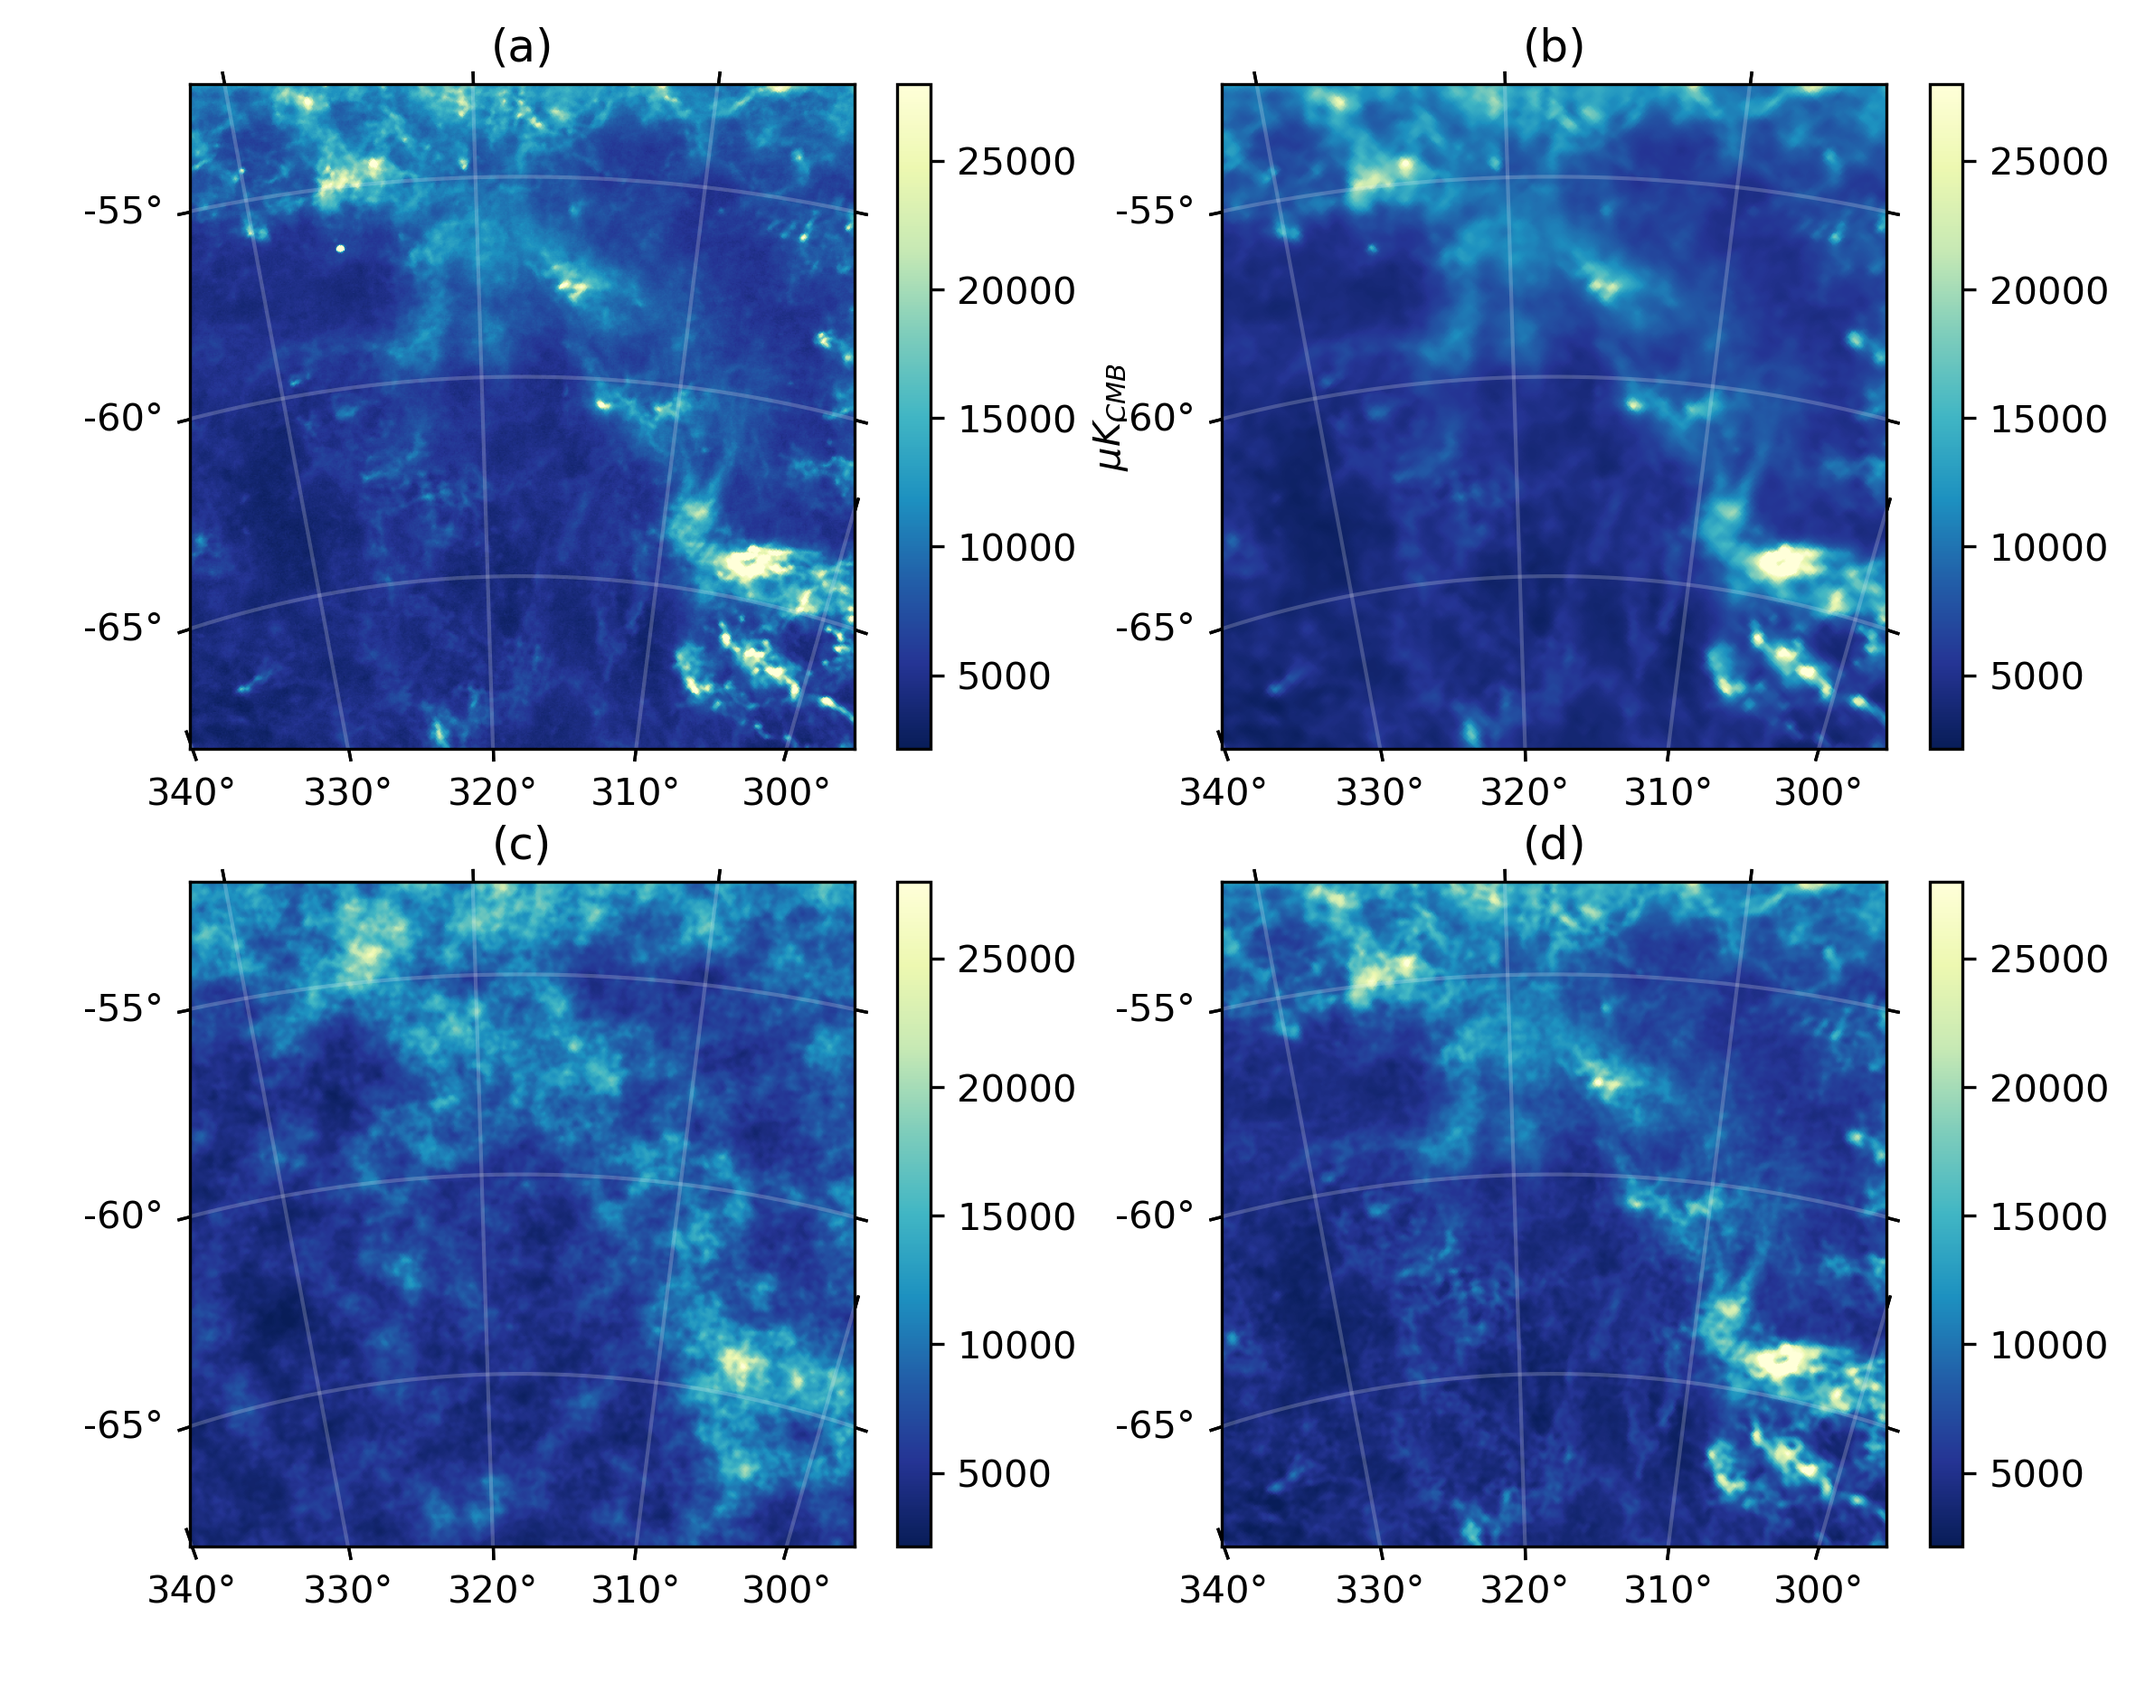
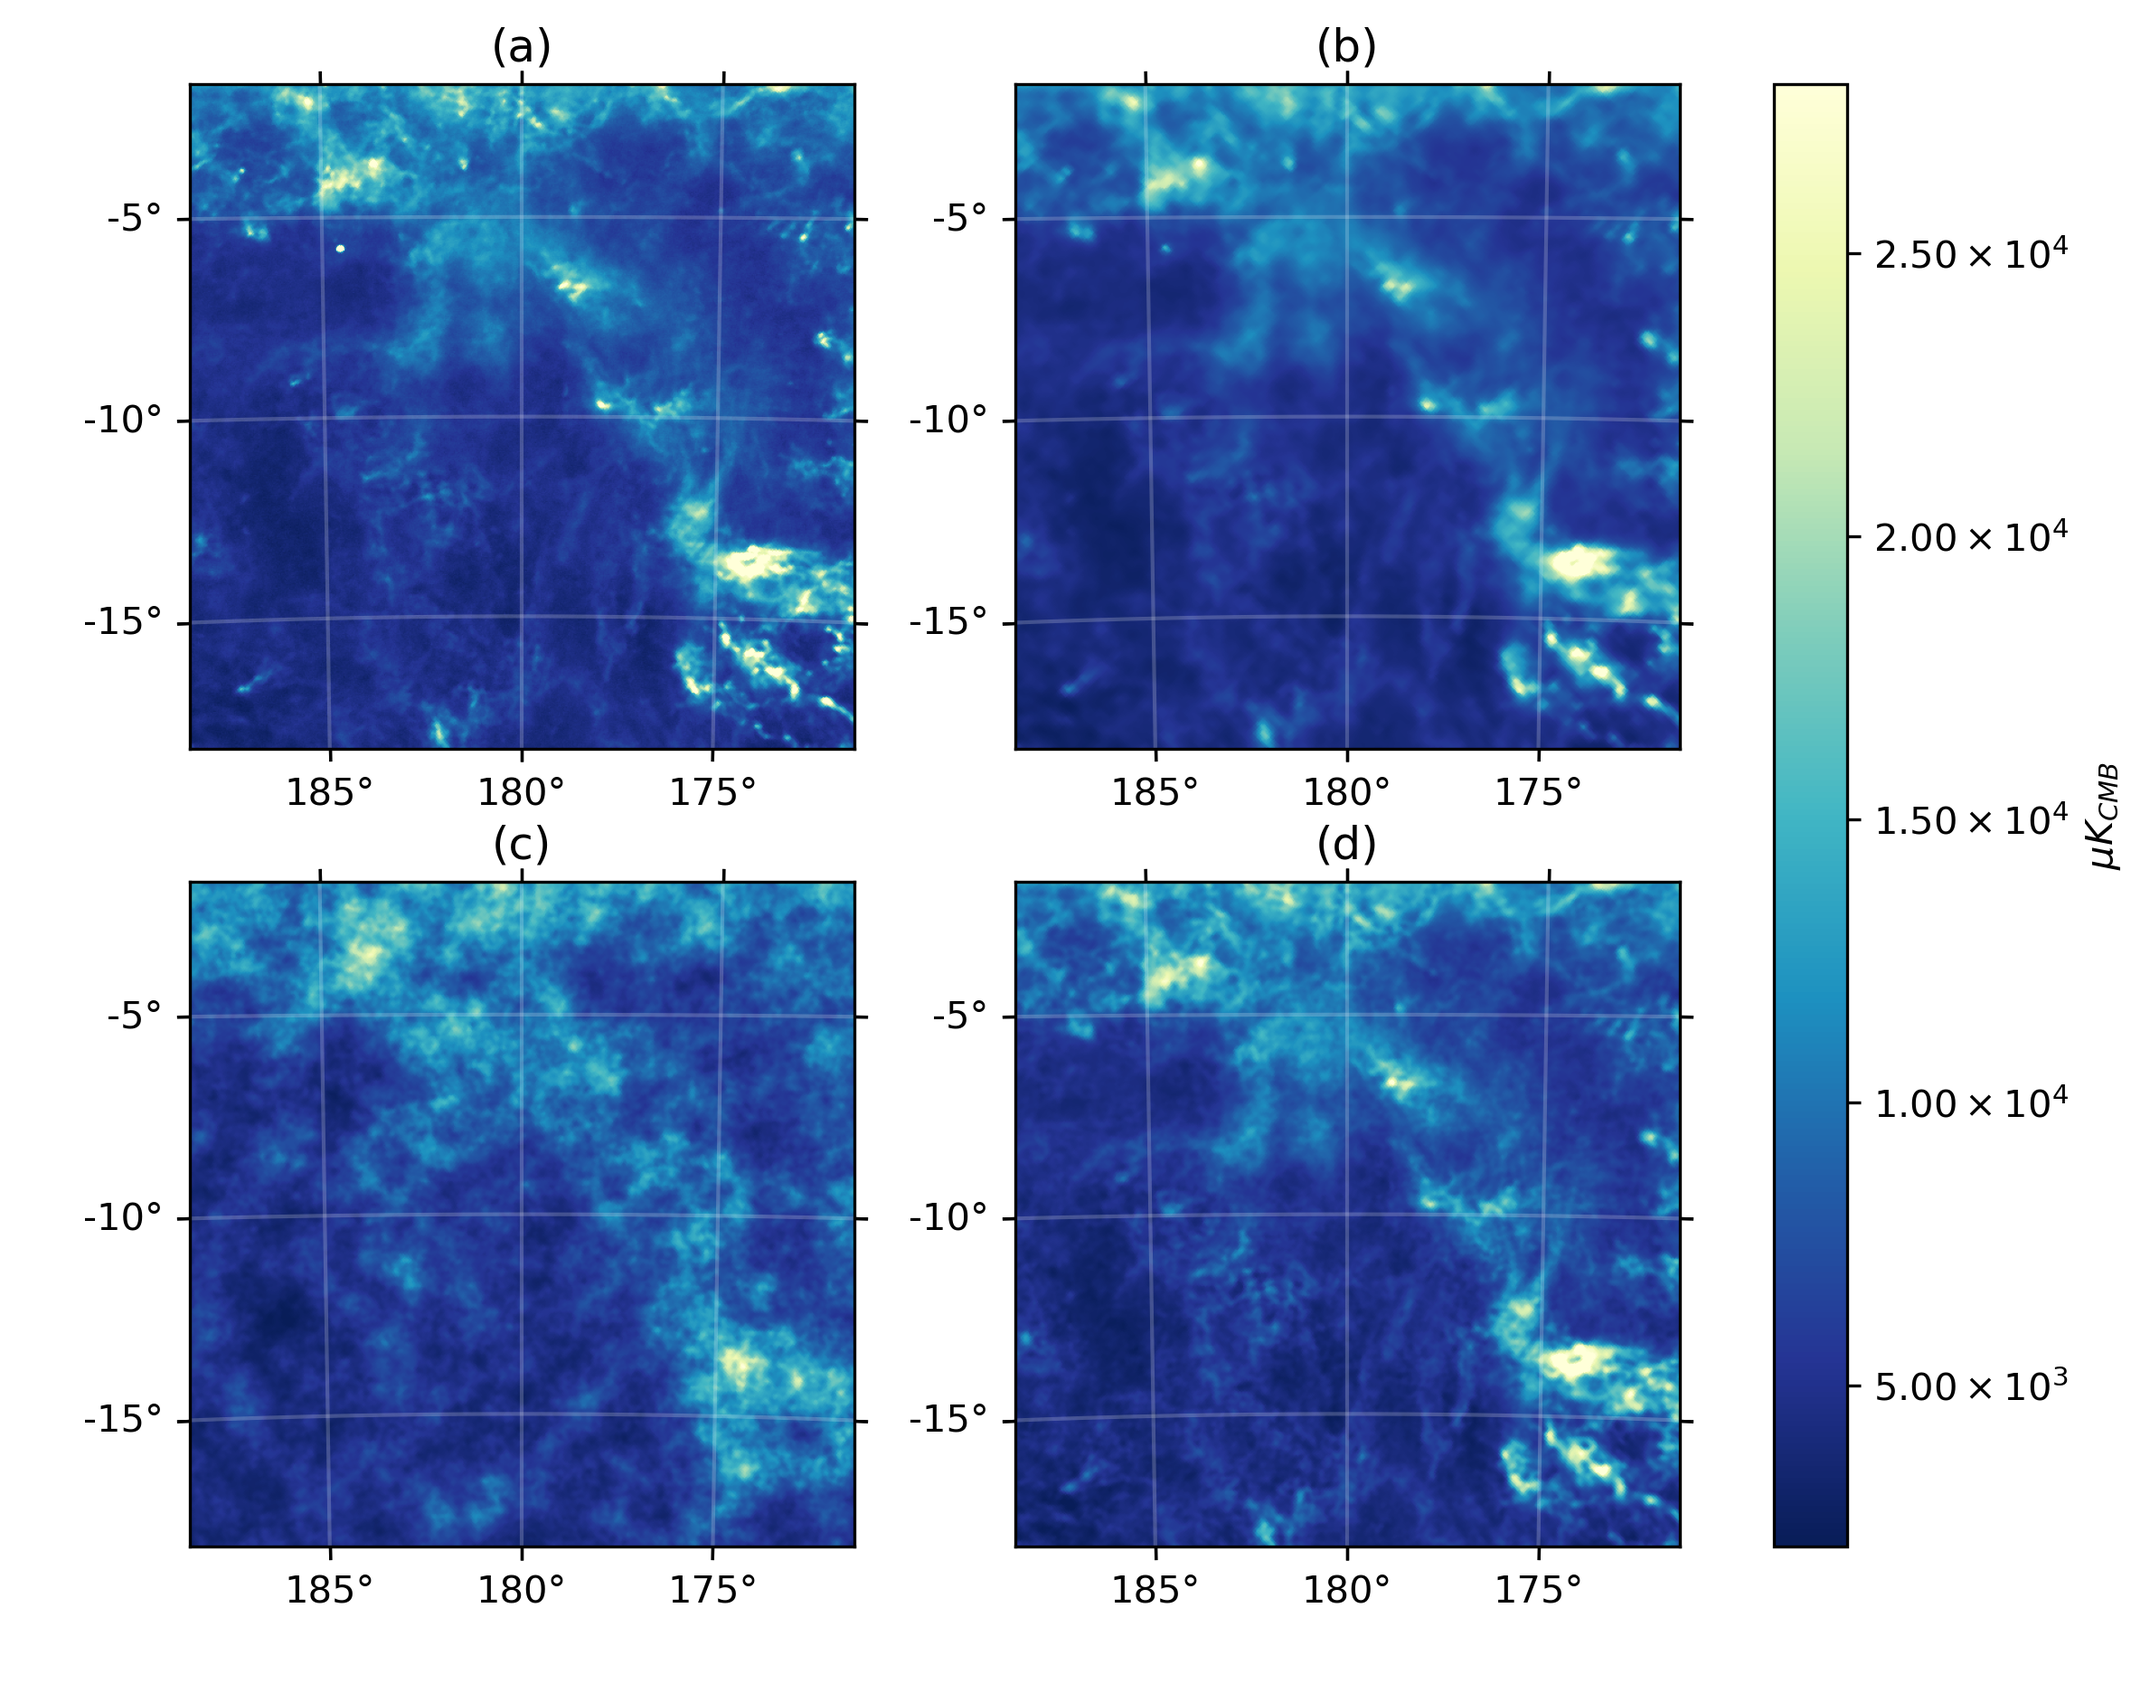
Update on Overleaf.

diff --git a/main.tex b/main.tex
@@ -451,8 +451,8 @@ We integrate the dust models in the Planck passband \citep{planck2013-p03d}.\foo
 
 \begin{figure*}[t!]
     \centering
-    \includegraphics[height=0.35\textwidth]{figures/I_gal_plane.png}
-    \includegraphics[height=0.35\textwidth]{figures/I_BK.png}
+    \includegraphics[height=0.395\textwidth]{figures/I_gal_plane.png}
+    \includegraphics[height=0.395\textwidth]{figures/I_BK.png}
 \caption{Dust intensity at 353GHz at [l = 180, b = -10] (left) and [l = 318, b = -61] (right) with an angular resolution of $4.94\arcmin$: (a) PR3 (b) d1 (c) d9 (d) d12.}    
 \label{fig:353_int}
 \end{figure*}
@@ -494,7 +494,7 @@ Intensity and polarization at 353~GHz are displayed in Figures~\ref{fig:353_int}
 %Varying choices for filtering the real data and generation of random small scales result in varying dust emission properties. 
 %Jacques
 In intensity, model {\tt d9} filters more of the real data and generates more random small-scale structures than models {\tt d1} and {\tt d12}. We can visually appreciate the impact of this choice in the left panel of Figure~\ref{fig:353_int}, near the Galactic plane. At high Galactic latitudes (right panel of Fig.~\ref{fig:353_int}), the PR3 observations are visibly contaminated by CIB fluctuations, which also contaminate model {\tt d1}. For model {\tt d9}, these CIB fluctuations are replaced by randomly generated small scales. Model {\tt d12}, which uses a 5\arcmin~GNILC intensity map, as described in sec. \ref{sec:layers}, preserves more of the real dust structures, while filtering much of the CIB contamination.
-
+Note that the color scale is different for the right panel of Fig.~\ref{fig:353_int}; it is mainly due to the uncertainty in the CIB monopole. In the case of model {\tt d1} (b), it is due to the difference in the CIB monopole between PR3 and PR2 products, as model {\tt d1} is based on PR2 data. For model {\tt d12}, 
 %As expected, in intensity, we see that d12 is more similar to the actual data in Figure~\ref{fig:353_int} than d9 that has random small-scale generation up to larger scales. We can visually appreciate the impact of different prescriptions for adding small scales in intensity, with more small-scale structures in model d9. 
 
 In Figure~\ref{fig:353_pol_int}, we compare the observations and models for polarized intensity at a resolution of 30\arcmin~since the PR3 data is contaminated by instrumental noise. 
